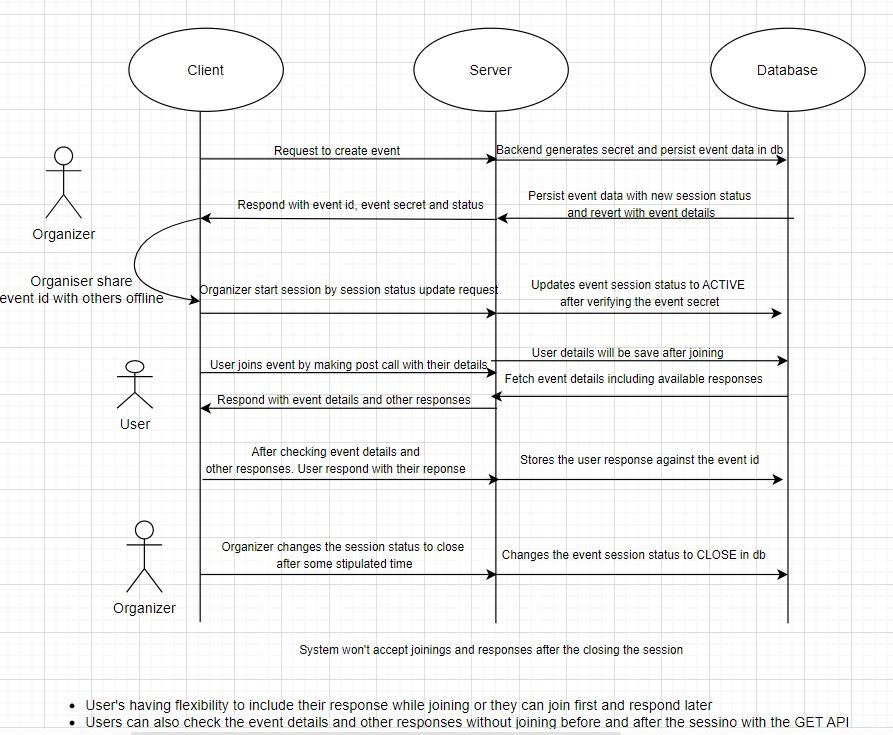
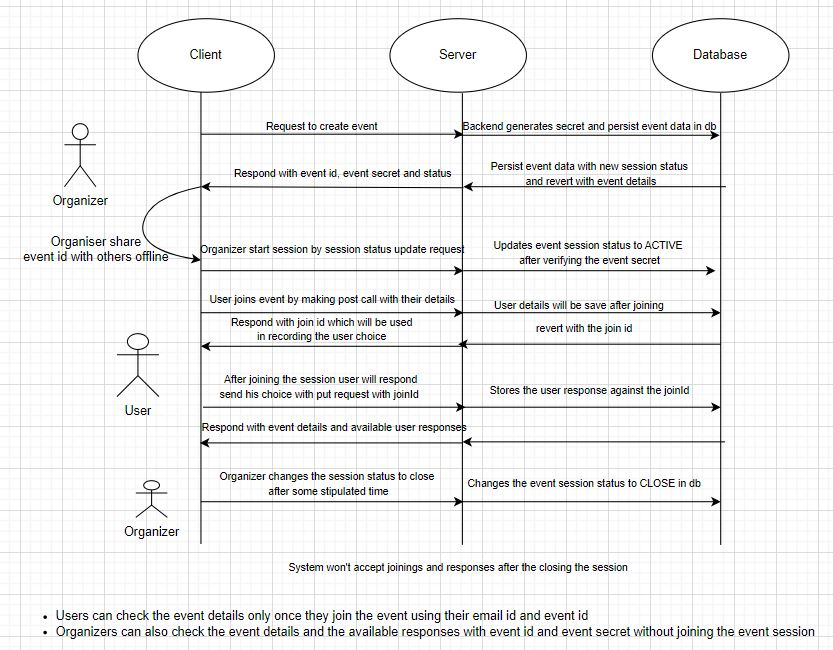
documentation updated

diff --git a/README.md b/README.md
@@ -26,15 +26,29 @@ In total there are 4 REST APIs in this application
 
 - PUT <baseurl>/v1/event : Organizer will use this API to update the existing event session status - Open session / Close session
 
-- GET <baseurl>/v1/event/{eventId} : This API will get all the details of the event including all the responses the event received till that time. This will give flexibility to the user to check event details and other responses without joining the event
+- GET <baseurl>/v1/event/{eventId}?email=<>&secret=<>: This API will get all the details of the event including all the responses the event received till that time.
+	* Only users who joined the event can access event details and other responses by passing their email
+	* Organizer can access the details by passing event secret
 
-- POST <baseurl>/v1/event/{eventId} : User will use this API to join or respond to the perticular event in session time. Users can also join the event without recording their response within the session time.
+- POST <baseurl>/v1/event/join : this will be used by the user to join the event. After joining te event only user can access other responses or record his/her response to the event.
+	* The API reverts with joinId if it successfully join the user to the event. This joinId will be used by the user to record their response
 
+- PUT <baseurl>/v1/event/{joinId} : This API will be used by the user to record their response with respect to the join id and event id. User will pass the joinId in the path and evetId,response in the body for this API
 Complete API information including request and response object details are provided in the swagger.yaml file.
 
 Postman Collection also added in this repo to make testing effortless.
 
 - All the API's will accept and produce Application/Json request and response types. 
+
+----------------------
+Swagger Documentation
+----------------------
+The application integrated with swagger using springfox library. Everyone can access the swagger ui for this application after using the application. 
+		
+		To access the swagger UI open <base_url>/swagger-ui/index.html in the browser to check the swagger documentation and test the API using swagger
+			example url: http://localhost:8000/swagger-ui/index.html
+
+
 
 -------------------
 Setup Instructions
@@ -57,14 +71,34 @@ There are profile based properties files in the application. Currently "dev" pro
 	
 	ex: create application-prod.properties file with all the required params in resource directory and update spring.profiles.active = prod in application.properties for the production environment deployment. 
 
-After installing oracle database need to create a user and import the DB_Schema.sql into the database by connecting to the user. Update the properties inside application-dev.properties file with respective values 
+After update the properties inside application-dev.properties file with respective values of user created in your database
 
 	spring.datasource.url=<Replace this with your jdbc url. example "jdbc:oracle:thin:@localhost:1521:xe">
 	spring.datasource.username=<user_name>
 	spring.datasource.password=<password>
 	
+----------------------
+Liquibase Integration
+----------------------
+
+The application integrated with liquibase library which will help in schema migration and to create the schema in database when any schema changes.
+
+There is a file called liquibase.properties where env properties related to liquibase will be saved. Liquibase auto pick the properties file. This file has a propetry to locate the changelog file. To change the changelog file path we need to modify the following property in liquibase.properties
+			
+			spring.liquibase.change-log=classpath:/db/changelog/db.changelog-master.yaml
+
+This db.changelog-master.yaml file contains the schema file location like the following
+				
+				databaseChangeLog:
+					- include:
+						file: classpath:/db/changelog/changes/001-initial-schema.sql
+
+001-initial-schema.sql is the initial schema file to create schema in data base startup.
+
+ - With this feature we don't need to create the db schema explicitly while running the application and it also helps to maintain changelog when the schema has been changed.
+ 
 -----------------------
-Running the application
+Running the applicatio
 -----------------------
 There a file named run.sh in the repository home directory. Once setting up all the prerequisites and environmental variables double click the run.sh file to launch the application.
 
@@ -98,11 +132,19 @@ Solution description (How the application works)
 	
   - Reason behind the status change implementation is to give the organizer enough time to share the event id will all the customers offline before starting the session
  
- c) User will call GET <baseurl>/v1/event/{eventId} with the eventId shared by organizer to check the event details and also other user responses till that time without joining the session anytime.
- 
- d) After checking the details and other's responses the user will call POST <baseurl>/v1/event/{eventId} with his name, email to join the session. User is free to give response in the joining API without calling another API.
- 
- e) Once the organizer feels that it is time to close the session he/she will call the same status change API called in step b with session status as 'CLOSE'
+ c) User will call GET <baseurl>/v1/event/{eventId} with the eventId shared by organizer to check the event details after joining and also other user responses till that time.
+
+  - Those who have joined the event only can access the details of an event by passing event id in path and email as the query param
+  
+  - Also organizer can also access the event details and responses anytime by passign eventsecret and event id to this api
+  
+ d) The user will call POST <baseurl>/v1/event/join with his name, email to join the session. This API will return a joining id to the user to be used in recording their response.
+
+ e) The user will call PUT <baseurl>/v1/event/join/{joinId} to record their response to the event against join id. User who joined in the event previously only can record their response with joinid.
+
+  - User will pass eventId and user response in the body for this API
+
+ f) Once the organizer feels that it is time to close the session he/she will call the same status change API called in step b with session status as 'CLOSE'
  
    - As soon as the status change to close backend logic will pick a random response from all the responses and store it into the event table as finalized response.
 	
@@ -113,6 +155,8 @@ Solution description (How the application works)
 -------------------------
 Enhancement Opportunities
 -------------------------
+- To make the application generic, I didn't use any specific words like location or session in the application context.
+  * With this application can also be used in lottery system where users will join and provide their lottery number as response within the active period and the lottery number will be picked randomly when the session ends.
 - In this system we will get the user count who attends the event with the user response count
 - We can analyze the user responses to provide ratings and reviews to the places
 - The solution can be enhanced to authorized user's by implementing authorization connecting with company user database via Single Sign On (SSO)
